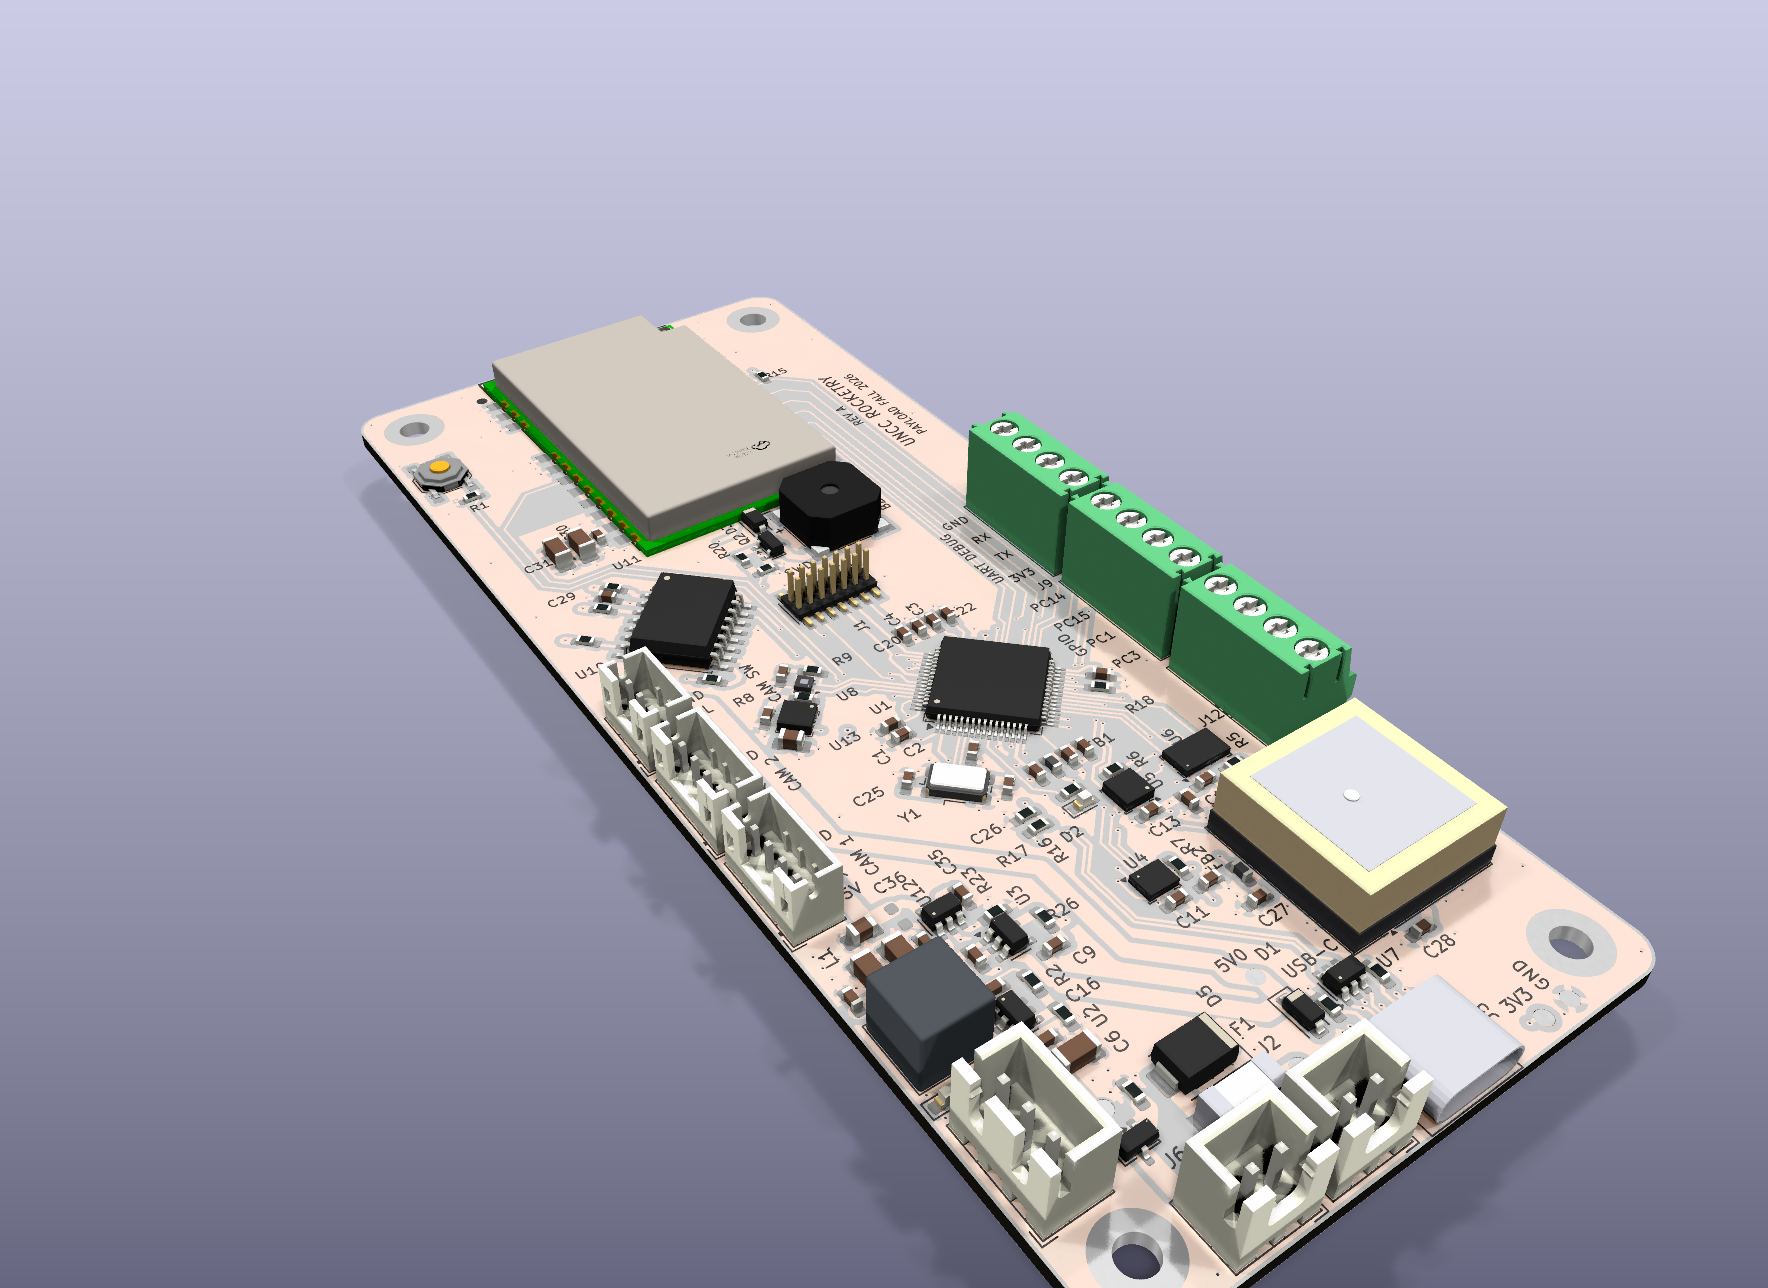
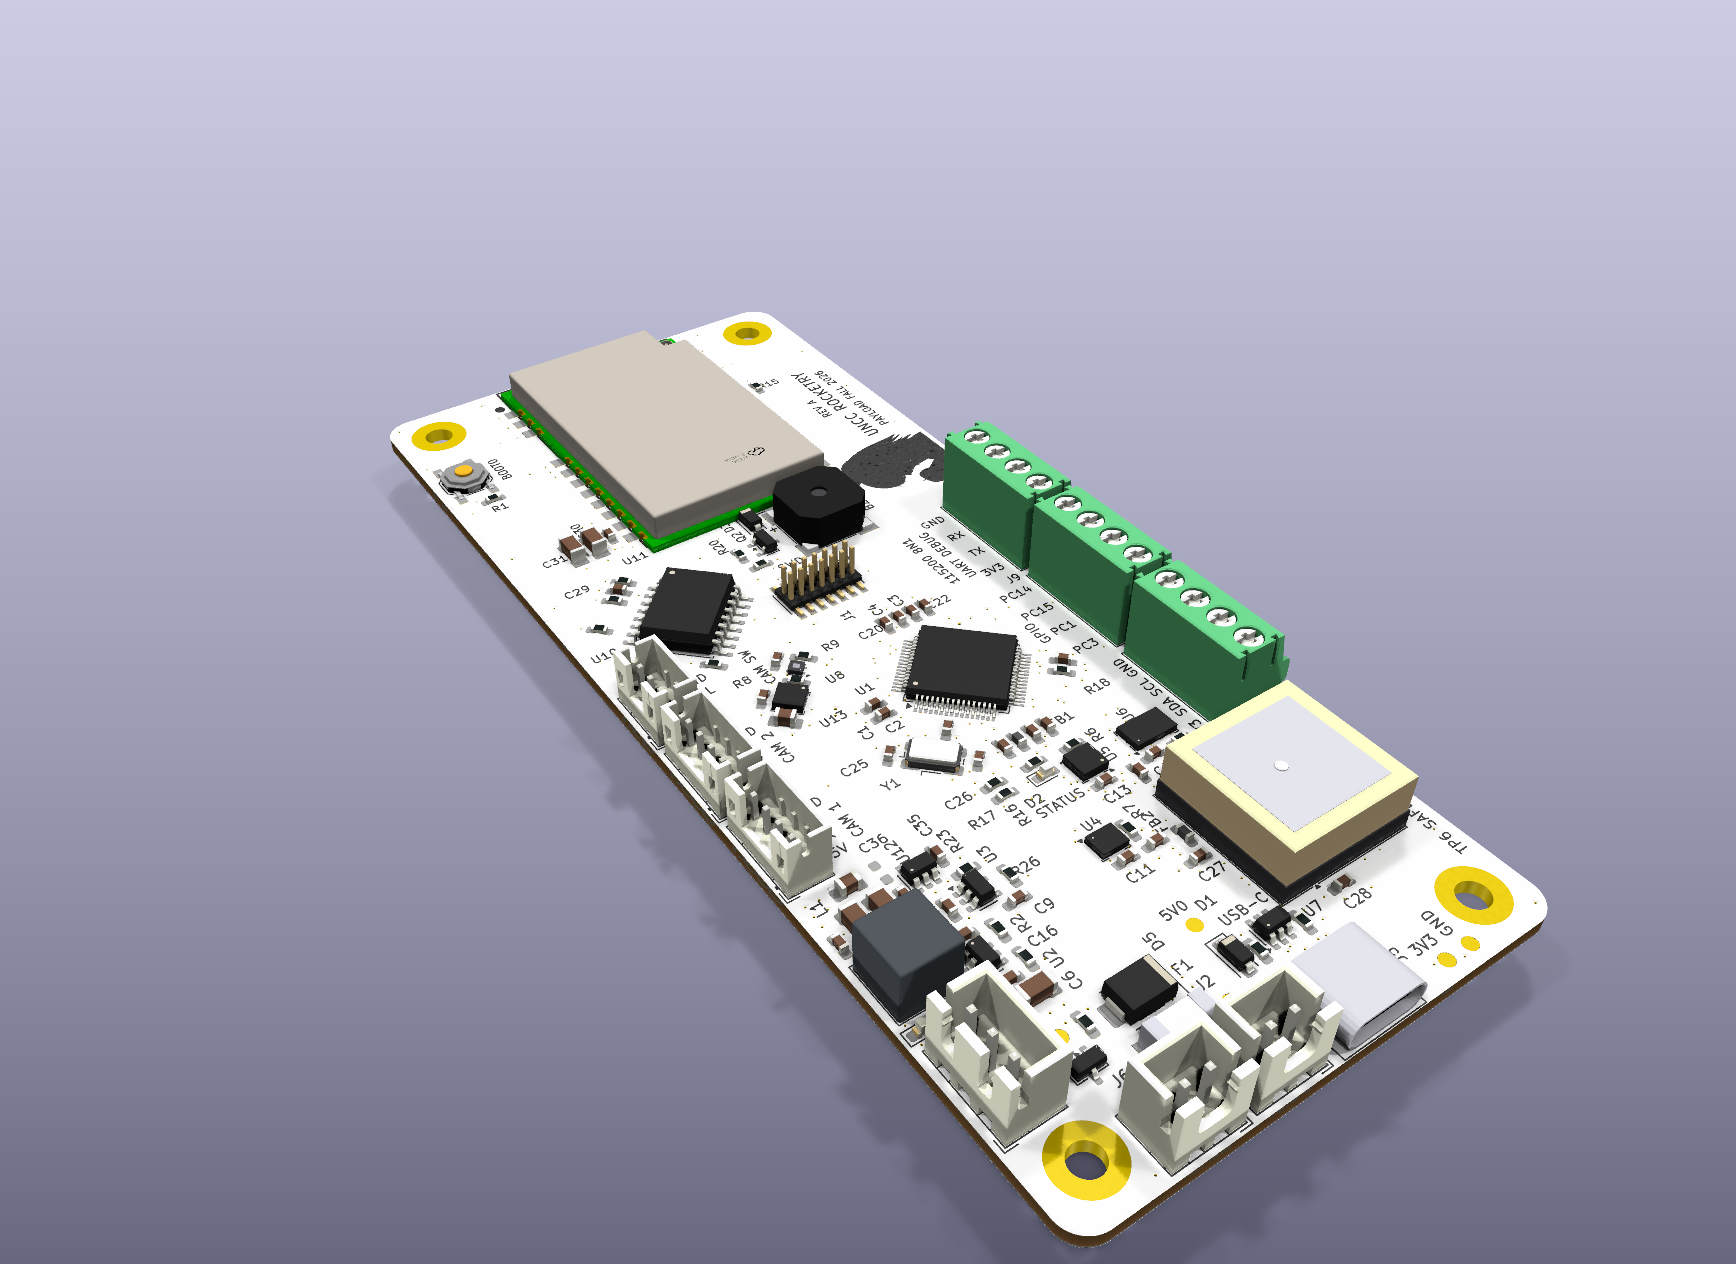
Update README board renders and add PCB layout image

Changed region(s): [[0.1866, 0.216, 0.9332, 1.0]]

diff --git a/README.md b/README.md
@@ -31,6 +31,12 @@ No KiCad? Download [Schematic.pdf](Schematic.pdf) to view the full schematic.
 
 ![Angled 3D view](images/board_3d_angled.png)
 
+### PCB layout
+
+Routed copper on all four layers, with silkscreen on the top and bottom (bottom view is mirrored).
+
+![PCB layout, all four copper layers](images/board_layout.png)
+
 ## Dashboard
 Take a look at live telemetry at telemetry.malekalbdoor.com
 
